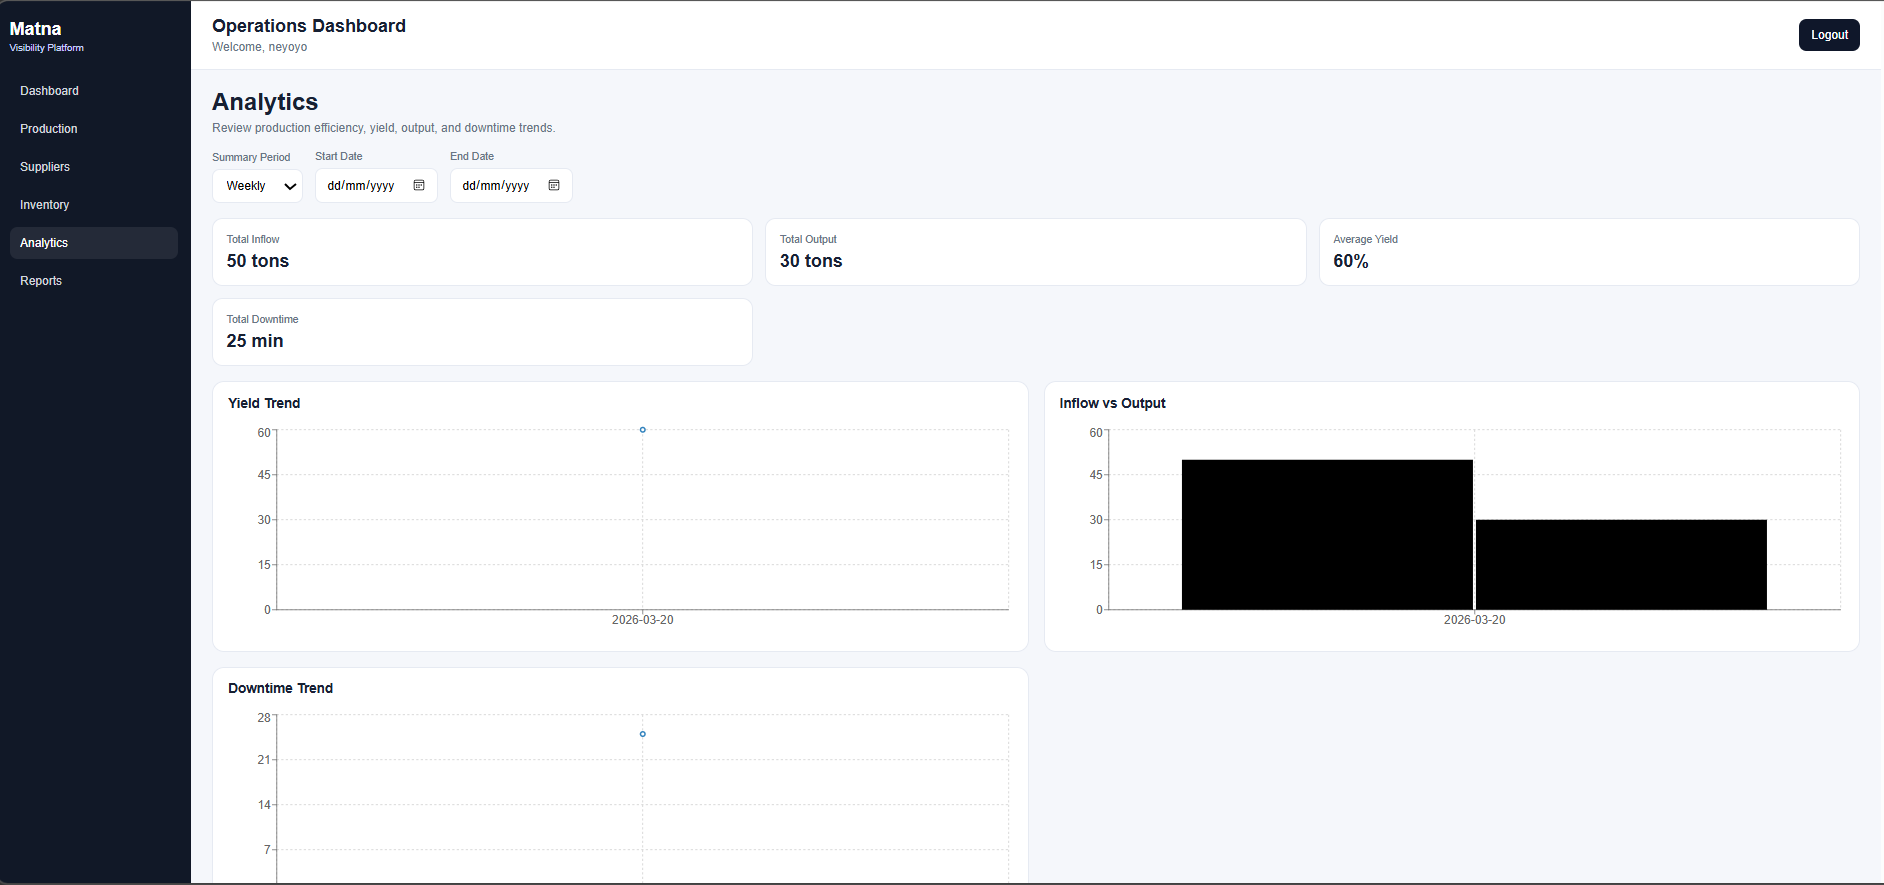
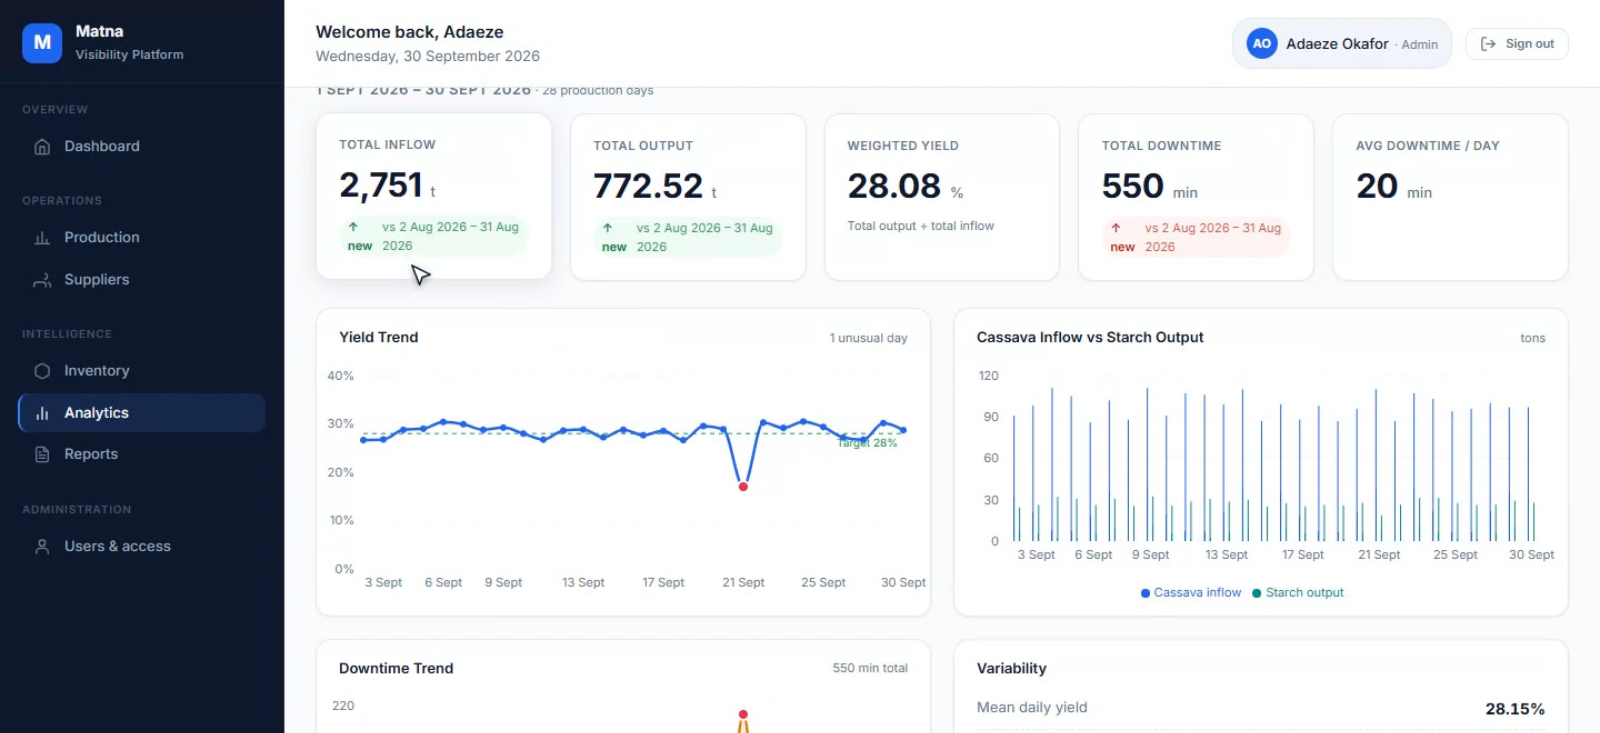
README: current screenshots, walkthrough link, ledger and KPI features

diff --git a/README.md b/README.md
@@ -10,8 +10,12 @@ An advanced, full-stack operational intelligence platform designed to track cass
 * **Supplier Management:** Maintain a complete supplier registry, track individual deliveries, and record quality control notes.
 * **Analytics Dashboard:** Real-time visual metrics, yield trends, and inflow vs. output charts powered by Recharts.
 * **Comprehensive Reporting:** Generate and export daily, weekly, or monthly operational summaries in CSV or PDF formats.
+* **Audit-Safe Stock Ledger:** Every stock movement is an append-only ledger entry. Records are voided, never deleted, and a reconciliation check confirms balances match the ledger.
+* **Server-Side KPI Thresholds:** Yield, downtime and stock-cover targets come from configuration, and the dashboard raises prioritised alerts when a KPI leaves its range.
 
 ## 📸 System Preview
+
+A full walkthrough is in [docs/matna-walkthrough.mp4](./docs/matna-walkthrough.mp4).
 
 ### 🖥 Analytics Dashboard
 The central hub for management to monitor production snapshots, yield efficiency, and downtime KPIs.
@@ -24,6 +28,10 @@ A streamlined interface for floor operators to log daily production metrics with
 ### 📦 Inventory Management
 Track real-time balances of raw materials and finished goods, alongside a complete transaction history.
 ![Inventory Management](./docs/screenshots/inventory.png)
+
+### 📈 Analytics
+30-day yield, inflow-versus-output and downtime trends, with unusual days highlighted.
+![Analytics](./docs/screenshots/analytics.png)
 
 ### 🚚 Supplier Portal
 Manage supplier profiles and track historical delivery volumes.
